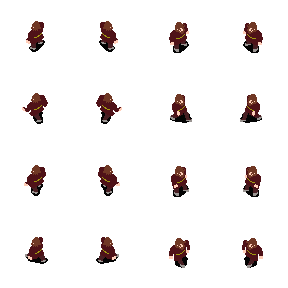
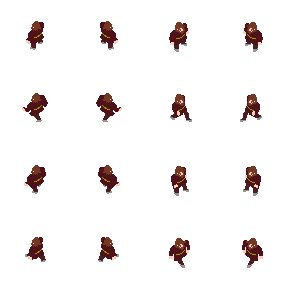
Added transparency for upper layers

diff --git a/js/layer.js b/js/layer.js
@@ -69,6 +69,31 @@ class Layer
         }
         
     }
+
+    setCurrentLayer(currentLayer)
+    {
+        let x = 0;
+        let y = 0;
+
+        console.log(this.level, currentLayer < this.level);
+
+        for(let i = 0; i < this.width*this.height; ++i)
+        {
+            if(this.isBlock(x, y))
+            {
+                if(currentLayer < this.level)                    
+                    this.sprites[i].alpha = 0.5;
+                else
+                    this.sprites[i].alpha = 1;
+            }
+
+            if(++x == this.width)
+            {
+                x = 0;
+                y++;
+            }
+        }
+    }
     
     addToStage(stage)
     {

diff --git a/js/map.js b/js/map.js
@@ -17,6 +17,12 @@ class Map
         if(z < 0 || z >= this.layers.length) return false;
         return this.layers[z].isBlock(x, y);
     }
+
+    setCurrentLayer(currentLayer)
+    {
+        for(let i = 0; i < this.layers.length; ++i)
+            this.layers[i].setCurrentLayer(currentLayer);
+    }
     
     addToStage(stage)
     {

diff --git a/index.html b/index.html
@@ -52,6 +52,8 @@
             {
                 player.move(lastMovement, map);                                                
                 container.children.sort(sortBlocks);
+
+                map.setCurrentLayer(player.z);
             }
 
             //Create the renderer
